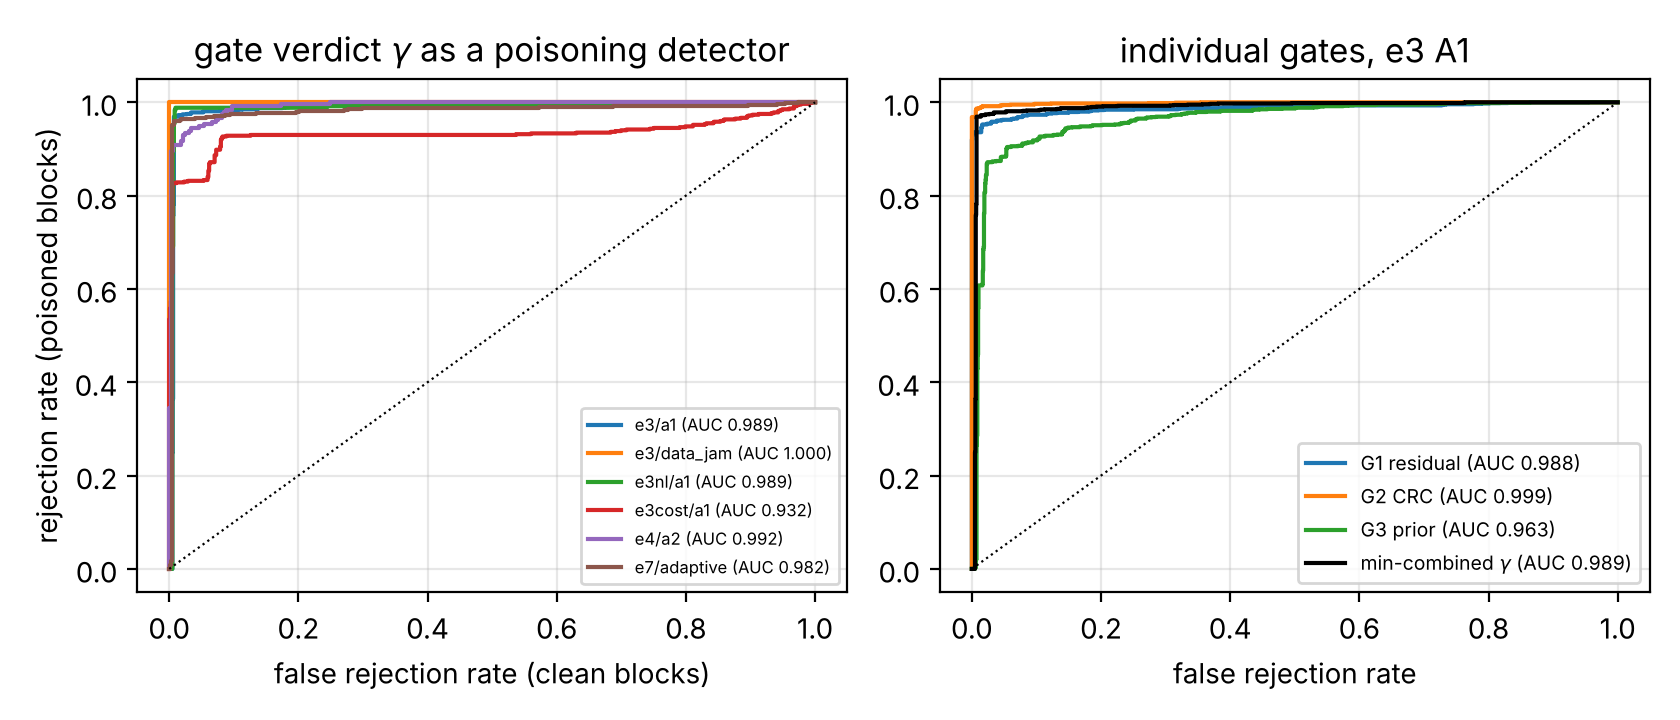
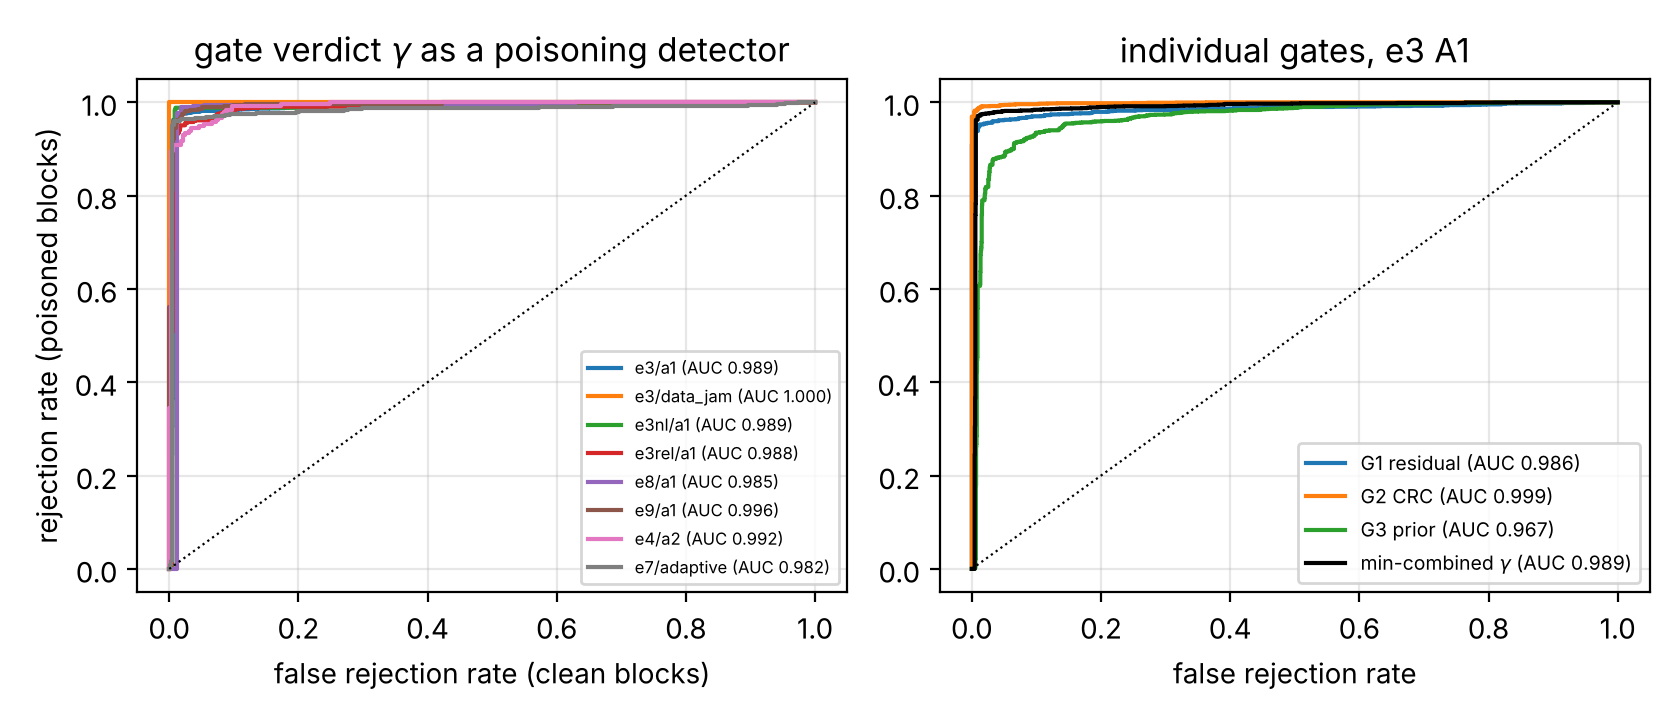
Fold the GPU results in: relative-slack grid, 8x8, Doppler sweep, five-seed headline cells; manuscript tables and ROC figure; separate first-calibration records
Claude-Session: https://claude.ai/code/session_014LiDyft9H5r68QLPkpAAJF

diff --git a/paper/main.tex b/paper/main.tex
@@ -45,8 +45,8 @@ displacement that a budget-$\epsilon$ poisoning can cause in level $K$ over $W$ 
 bounded by $\eta^{(K)}\epsilon\,G\,(1-p^{\rm rej})\,W/C_K$, with every constant measured
 from the receiver, and a corruption-robust dynamic-regret decomposition in which the
 adversary's term is additive, scaled by the gate's miss rate and divided by the level
-period. Across 1\,800 runs on synthetic linear and nonlinear channels, Jakes fading and
-COST2100 traces, three seeds, white-box, transfer, targeted, boiling-frog and
+period. Across 1\,900 recorded runs on synthetic linear and nonlinear channels, Jakes fading at
+three Doppler rates, COST2100 traces, $4\times4$ and $8\times8$ systems, three to five seeds, white-box, transfer, targeted, boiling-frog and
 gate-aware attackers, Citadel-Rx keeps its clean symbol error rate at every attack
 budget from $-10$ to $+10$\,dB signal-to-interference ratio (attack-window SER
 $0.025$--$0.037$ against $0.28$--$0.97$ for online DeepSIC and $0.24$--$0.86$ for
@@ -111,8 +111,8 @@ $10^{-3}$ operating points.
 for the slow memory (Thm.~\ref{thm:cert}) and a corruption-robust dynamic-regret
 decomposition (Thm.~\ref{thm:regret}), both for the algorithm as implemented, with
 constants the code measures.
-\item \textbf{Evidence} (Sec.~\ref{sec:exp}): 1\,800 recorded runs, three seeds,
-seven receivers, five attackers, four channel families, a full ablation, the gate's
+\item \textbf{Evidence} (Sec.~\ref{sec:exp}): 1\,900 recorded runs, three to five seeds,
+seven receivers, five attackers, four channel families, two system sizes, a full ablation, the gate's
 receiver operating characteristic, the per-block cost, and the certificate drawn with
 measured constants against paired adversarial/clean memory trajectories.
 \end{enumerate}
@@ -240,11 +240,19 @@ the $\chi^2$ quantile of the degrees of freedom; it targets physically implausib
 jumps (A2) and is the only gate that is not fooled by an attacker who keeps the SER
 low.
 
+\begin{figure}[t]
+\centering\includegraphics[width=\columnwidth]{fig_gate_roc}
+\caption{Receiver operating characteristic of the gate verdict $\gamma$ as a detector of
+poisoned blocks, pooled over seeds and budgets (left: per experiment; right: individual
+gates on the linear A1 grid). Script: \texttt{gate\_roc.py}.}
+\label{fig:roc}
+\end{figure}
 The verdict is $\gamma_b=\min$ of the three soft verdicts. The gate's receiver operating
 characteristic is in Fig.~\ref{fig:roc}: area under the curve $0.989$ (A1, linear),
-$0.989$ (nonlinear), $0.992$ (A2), $0.982$ (gate-aware), $1.000$ (jamming), $0.932$
-(COST2100, absolute slack); at the operating point used, $94\%$ of poisoned blocks are
-rejected at a $0.7\%$ false-rejection rate.
+$0.989$ (nonlinear), $0.988$ (relative-slack grid incl. COST2100), $0.985$ (8$\times$8),
+$0.996$ (Jakes), $0.992$ (A2), $0.982$ (gate-aware), $1.000$ (jamming); at the operating
+point used, $94\%$ of poisoned blocks are rejected at a $0.6\%$ false-rejection rate on
+the linear grid.
 
 \section{Theory}\label{sec:theory}
 We state the results for the algorithm as implemented; proofs are in the supplementary
@@ -297,9 +305,10 @@ for the last-layer-adaptable variant the standard $O(\sqrt{T(1+P_T)})$ dynamic-r
 bound applies with the bounded step size.
 
 \section{Experiments}\label{sec:exp}
-\textbf{Protocol.} 4$\times$4 QPSK, $N_p=100$ pilot symbols (200 bits) and $N_d=25\,000$
-data symbols per user per block, 100 blocks per run (400 for A3), SNR 10\,dB unless
-swept, A1 on blocks 30--69, 3 seeds (mean reported; seed standard deviations are in the
+\textbf{Protocol.} 4$\times$4 QPSK (8$\times$8 in Sec.~\ref{sec:88}), $N_p=100$ pilot
+symbols (200 bits) and $N_d=25\,000$ data symbols per user per block, 100 blocks per run
+(400 for A3), SNR 10\,dB unless swept, A1 on blocks 30--69, 3 seeds (5 on the headline
+cells; means reported, seed standard deviations are in Table~\ref{tab:seeds} and the
 repository tables and are an order of magnitude below every effect we discuss). SER is
 the fraction of symbol slots in which any user is wrong, the metric of
 \cite{shlezinger2021deepsic,raviv2023meta,wu2024poison}. Baselines: LMMSE; online
@@ -388,6 +397,55 @@ DeepSIC $0.32$--$0.97$, Meta-DeepSIC $0.31$--$0.87$ never recovering) and in the
 degradation metric of \cite{wu2024poison}: the extra SNR needed under attack to reach
 the clean SER is unbounded for every baseline over the whole 4--16\,dB grid (attacked
 SER $0.45$--$0.91$), and $\le0$\,dB for Citadel-Rx from 4 to 10\,dB, 1.8\,dB at 12\,dB.
+
+\begin{table}[t]
+\centering\caption{Headline cells with five seeds (mean $\pm$ standard deviation over
+seeds). Scripts: \texttt{sweep.py e3/e2 --seeds 0 1 2 3 4}.}\label{tab:seeds}
+\small
+\begin{tabular}{lccc}
+\toprule
+cell & online DeepSIC & Meta-DeepSIC & Citadel-Rx\\
+\midrule
+clean, cosine 10\,dB & $0.0590\pm0.0008$ & $0.0527\pm0.0008$ & $\mathbf{0.0302\pm0.0004}$\\
+clean, Jakes 10\,dB & $0.0128\pm0.0058$ & $0.0115\pm0.0049$ & $\mathbf{0.0059\pm0.0028}$\\
+A1 white-box, SIR $-10$ & $0.973\pm0.003$ & $0.861\pm0.009$ & $\mathbf{0.026\pm0.002}$\\
+A1 white-box, SIR $0$ & $0.772\pm0.013$ & $0.593\pm0.011$ & $\mathbf{0.028\pm0.002}$\\
+A1 white-box, SIR $10$ & $0.277\pm0.005$ & $0.241\pm0.006$ & $\mathbf{0.034\pm0.003}$\\
+A1 transfer, SIR $0$ & $0.347\pm0.013$ & $0.213\pm0.012$ & $\mathbf{0.027\pm0.003}$\\
+jamming, 0\,dB & $0.855\pm0.001$ & $0.851\pm0.001$ & $0.848\pm0.001$\\
+\bottomrule
+\end{tabular}
+\end{table}
+
+\subsection{Larger system and faster fading}\label{sec:88}
+\begin{table}[t]
+\centering\caption{8$\times$8 QPSK, 10\,dB, white-box A1, 3 seeds: clean SER and SER in
+the attack window. Script: \texttt{sweep.py e8}.}\label{tab:88}
+\small
+\begin{tabular}{lcccc}
+\toprule
+receiver & clean & SIR $-10$ & SIR $0$ & SIR $10$\\
+\midrule
+LMMSE (transfer) & 0.129 & 0.983 & 0.793 & 0.200\\
+online DeepSIC & 0.204 & 0.998 & 0.971 & 0.615\\
+Meta-DeepSIC & 0.187 & 0.972 & 0.934 & 0.603\\
+drift-detection & 0.217 & 0.997 & 0.971 & 0.608\\
+MedBN-style & 0.177 & 0.995 & 0.923 & 0.644\\
+single-memory Titans & 0.177 & 0.998 & 0.969 & 0.583\\
+\textbf{Citadel-Rx} & \textbf{0.102} & \textbf{0.080} & \textbf{0.080} & \textbf{0.090}\\
+\bottomrule
+\end{tabular}
+\end{table}
+With eight users (Table~\ref{tab:88}) the clean gain grows (interference cancellation
+matters more: Citadel-Rx $0.102$ against LMMSE $0.129$ and online DeepSIC $0.204$), every
+baseline is destroyed at SIR $\le0$\,dB, Meta-DeepSIC and MedBN again never recover
+(post-attack SER $0.40$--$0.66$), and Citadel-Rx stays below its own pre-attack level at
+every budget with $97$--$100\%$ rejection and $3$--$5\%$ false rejections. Under Jakes
+fading at $f_DT_b=0.01/0.05/0.10$ and SIR 0\,dB the attack-window SER of Citadel-Rx is flat
+at $0.0066/0.0069/0.0075$ (pre-attack $0.007/0.010/0.015$; rejection $0.92/0.94/0.97$,
+false rejection $0.6/1.1/3.3\%$), while online DeepSIC sits at $0.72$ and Meta-DeepSIC at
+$0.50$--$0.53$ without recovering: faster fading raises everyone's clean SER and the
+gate's false alarms, not the attacker's success.
 
 \subsection{Ablation}
 \begin{table}[t]
@@ -486,10 +544,21 @@ recovering); Citadel-Rx with the absolute CRC slack to $0.002$--$0.012$ (clean
 $3\cdot10^{-4}$), $50$--$400\times$ better than online DeepSIC but off its clean
 trajectory, with rejection falling to $0.64$: at that operating point a one-point SER
 slack is $30\times$ the clean SER and the attacker can pass G2 while doing damage. With
-the relative slack of Prop.~\ref{prop:crc} the attack-window SER at SIR 0\,dB returns to
-$0.0009$ (tight-slack pilot test, 3 seeds; rejection $0.85$--$0.93$, no false rejections);
-the full relative-slack grid is \todo{E3rel, pending}. We report this as the one
-threshold-design limit found, and its fix.
+the relative slack of Prop.~\ref{prop:crc} the attack-window SER on COST2100
+becomes $0.0011/0.0012/0.0012/0.0015/0.0028$ at SIR $-10/-5/0/5/10$\,dB (3 seeds; clean
+$0.0003$, post-attack $0.0004$, rejection $0.89/0.90/0.86/0.74/0.40$, no false rejections):
+$2$--$8\times$ lower than with the absolute slack, and $4$--$9\times$ the clean level instead
+of $7$--$40\times$; the weak attacker at $10$\,dB passes the gate more often but can do,
+by construction, at most the slack's worth of harm. The linear SIR grid is unchanged
+($0.025$--$0.029$, rejection $0.93$--$1.00$, false rejection $\le2\%$), and on the SNR sweep
+the attacked-window SER is $0.0062$ at 12\,dB (clean $0.0059$, i.e. no degradation),
+$0.0018$ at 14\,dB and $0.0009$ at 16\,dB (clean $0.0008$ and $0.0001$). A first
+calibration with a tighter floor ($10^{-3}$) had fixed COST2100 but raised linear false
+rejections to $15$--$20\%$, because the floor sat inside the statistical resolution of the
+pass fraction; the floor of $2\cdot10^{-3}$ is five standard deviations of it. What
+remains is a floor near $10^{-3}$ at $14$--$16$\,dB set by the $\sim5\%$ of poisoned blocks
+that pass the gate, which a $10^{-4}$ operating point cannot absorb; we state it as a
+limitation.
 
 \subsection{Cost}
 Per block on one CPU thread, with 300 adaptation steps: LMMSE 0.09\,s, online DeepSIC
@@ -515,16 +584,17 @@ at a $10^{-4}$ operating point (16\,dB) the rare leaked block dominates and the
 degradation in dB is not bounded by our grid. (iii) The certificate's Lipschitz constants are random-probe lower bounds of
 suprema and, for the default receiver, do not certify the contraction of part (ii); the
 guarantee we claim is the structural part (i) with the measured fast-level displacement. (iv) We claim no
-dynamic-regret rate for the clean term of the full-MLP receiver. (v) Results are for
-4$\times$4 QPSK with 100 pilot symbols; the 8$\times$8 grid and link-level simulations
-with LDPC coding are \todo{pending}.
+dynamic-regret rate for the clean term of the full-MLP receiver. (v) Results are for QPSK with 100 pilot symbols per user and uncoded data (the CRC
+framing is the only code); link-level simulation with LDPC coding and a 3GPP channel
+model is future work.
 
 \section{Conclusion}
 Memory at several time-scales, consolidated only through physics-consistent evidence
 and used as both a prior and a fallback, makes an adaptive neural receiver hard to
 poison: the adversary's reach into the slow memory is divided by its period and
-multiplied by the gate's miss rate, provably and measurably, and in 1\,800 runs no
-attacker in our threat model moved the receiver off its clean trajectory except in the
+multiplied by the gate's miss rate, provably and measurably, and in 1\,900 runs no
+attacker in our threat model moved the receiver off its clean trajectory, at either
+system size, at any Doppler, on any of the four channel families, except in the
 low-SER regime whose fix we derived.
 
 \bibliographystyle{IEEEtran}

diff --git a/docs/RESULTS.md b/docs/RESULTS.md
@@ -347,11 +347,95 @@ L_a = 0.35 (mean 0.32), A3 budget ε = 1.05 per block, single-gradient constant 
   of the fast level (5.2 → 1.5) — a stronger prior makes the per-block fit less steerable by
   the pilots, clean or poisoned.
 
+## Full relative-slack grid (GPU box, 2 Nov; 3 seeds; `results/e3rel/`, 57 records; ρ = 1, δ_min = 0.002)
+
+COST2100, white-box A1, SER in the attack window at SIR −10 / −5 / 0 / 5 / 10 dB:
+**0.0011 / 0.0012 / 0.0012 / 0.0015 / 0.0028** (clean 0.0003, post 0.0004, recovery 0–9 blocks;
+rejection 0.89 / 0.90 / 0.86 / 0.74 / 0.40; false rejection 0.00). Against the absolute-slack rows
+(0.0022 / 0.0032 / 0.0054 / 0.0122 / 0.0111) this is 2–8× lower and 4–9× the clean level instead
+of 7–40×. At SIR 10 dB the weak attacker slips under the slack more often (rejection 0.40)
+but the harm it can do while passing is, by construction, bounded by the slack.
+
+Linear channel, same grid (no-regression check): 0.0255 / 0.0252 / 0.0247 / 0.0250 / 0.0285
+at SIR −10 … 10 dB, clean 0.039, rejection 0.93–1.00, false rejection 0.00–0.02 — identical to
+the absolute-slack rows of the E3 table.
+
+SNR sweep at SIR 0 dB, clean / attacked window: 10 dB 0.0305 / 0.0250; 12 dB 0.0059 / 0.0062;
+14 dB 0.0008 / 0.0018; 16 dB 0.0001 / 0.0009 (rejection 0.97–1.00 / 0.97–1.00 / 0.93–0.97 /
+0.88–0.93). Δ_dB is now ≈ 0 at 12 dB (was 1.8) and the attacked window sits at 1e-3 at
+14–16 dB (was 3e-3–6e-3). Δ_dB at 14–16 dB remains outside the grid: the ~5 % of poisoned
+blocks that pass the gate set a floor near 1e-3 that a 1e-4 operating point cannot absorb.
+Stated as a limitation; closing it needs rejection → 1, not a different slack.
+
+Gate ROC on this grid: AUC 0.988 (γ), 0.956 (G1), 0.974 (G2), 0.947 (G3); rejection 0.90 at
+0.7 % false rejection (`docs/figures/fig_gate_roc.png`, regenerated with e3rel/e8/e9).
+
+## 8×8 QPSK (GPU box, 2 Nov; 3 seeds; `results/e8/`, 84 records)
+
+Linear SED channel with eight users (cosine fading periods extended with co-prime periods
+for users 5–8), SNR 10 dB, white-box A1 on blocks 30–69.
+
+| receiver | clean (no attack) | pre | attack window, SIR −10 / 0 / 10 dB | post (0 dB) | recovery | rejection / false rej. |
+|---|---|---|---|---|---|---|
+| LMMSE | 0.129 | 0.141 | 0.983 / 0.793 / 0.200 (transfer) | 0.129 | 7 | – |
+| online DeepSIC | 0.204 | 0.250 | 0.998 / 0.971 / 0.615 | 0.316 | 11 | – |
+| Meta-DeepSIC | 0.187 | 0.220 | 0.972 / 0.934 / 0.603 | 0.656 | 30† | – |
+| drift-detection | 0.217 | 0.259 | 0.997 / 0.971 / 0.608 | 0.316 | 11 | – |
+| MedBN-style | 0.177 | 0.158 | 0.995 / 0.923 / 0.644 | 0.396 | 30† | – |
+| single-memory Titans | 0.177 | 0.234 | 0.998 / 0.969 / 0.583 | 0.280 | 9 | – |
+| **Citadel-Rx** | **0.102** | 0.127 | **0.080 / 0.080 / 0.090** | 0.096 | 6 | 0.97–1.00 / 0.03–0.05 |
+
+With twice the users the clean gain grows (Citadel 0.102 vs LMMSE 0.129, online 0.204:
+interference cancellation matters more), the attack destroys every baseline at ≤ 0 dB
+(SER 0.92–0.998) and Meta-DeepSIC/MedBN again never recover (post-attack 0.40–0.66), and
+Citadel-Rx stays below its own pre-attack level at every budget. False rejections rise to
+3–5 % (the 8-user fade has deeper per-block dips) and are the reason the "recovery" column
+reads 6 rather than 0: the post-attack SER (0.096) is within 10 % of the pre-attack level
+only after the fade turns.
+
+## Doppler sweep (GPU box, 2 Nov; 3 seeds; `results/e9/`, 63 records)
+
+Jakes block fading, f_D T_b = 0.01 / 0.05 / 0.10, SNR 10 dB, white-box A1 at SIR 0 dB, SER in
+the attack window (pre-attack in parentheses):
+
+| receiver | 0.01 | 0.05 | 0.10 | recovery | post-attack |
+|---|---|---|---|---|---|
+| LMMSE (transfer) | 0.067 (0.015) | 0.067 (0.017) | 0.103 (0.021) | 0–1 | 0.002–0.009 |
+| online DeepSIC | 0.719 (0.017) | 0.719 (0.019) | 0.717 (0.026) | 3–6 | 0.017–0.021 |
+| Meta-DeepSIC | 0.496 (0.013) | 0.501 (0.017) | 0.531 (0.026) | 25–30† | 0.074–0.087 |
+| drift-detection | 0.728 (0.023) | 0.738 (0.029) | 0.717 (0.040) | 5–11 | 0.026–0.032 |
+| MedBN-style | 0.711 (0.015) | 0.692 (0.017) | 0.691 (0.025) | 30† | 0.16 |
+| single-memory Titans | 0.738 (0.015) | 0.749 (0.018) | 0.736 (0.023) | 4–5 | 0.015–0.020 |
+| **Citadel-Rx** | **0.0066 (0.0071)** | **0.0069 (0.0098)** | **0.0075 (0.0147)** | 0–1 | 0.001–0.003 |
+
+Rejection 0.92 / 0.94 / 0.97, false rejection 0.006 / 0.011 / 0.033. Faster fading raises the
+clean SER of every receiver and raises Citadel's false rejections (a fast channel looks more
+"surprising"), but the defence does not weaken: the attack-window SER is flat at 0.007 across
+a 10× range of Doppler. Gate AUC 0.996.
+
+## Five seeds on the headline cells (seeds 0–4; `results/e3/`, `results/e2/`)
+
+| cell | online DeepSIC | Meta-DeepSIC | Citadel-Rx |
+|---|---|---|---|
+| clean SER, cosine, 10 dB | 0.0590 ± 0.0008 | 0.0527 ± 0.0008 | **0.0302 ± 0.0004** |
+| clean SER, Jakes 0.05, 10 dB | 0.0128 ± 0.0058 | 0.0115 ± 0.0049 | **0.0059 ± 0.0028** |
+| pre-attack SER (E3) | 0.0714 ± 0.0014 | 0.0617 ± 0.0010 | 0.0397 ± 0.0007 |
+| white-box A1, SIR −10 dB | 0.973 ± 0.003 | 0.861 ± 0.009 | **0.0261 ± 0.0017** |
+| white-box A1, SIR 0 dB | 0.772 ± 0.013 | 0.593 ± 0.011 | **0.0277 ± 0.0021** |
+| white-box A1, SIR 10 dB | 0.277 ± 0.005 | 0.241 ± 0.006 | **0.0344 ± 0.0029** |
+| transfer A1, SIR 0 dB | 0.347 ± 0.013 | 0.213 ± 0.012 | **0.0270 ± 0.0026** |
+| data jamming, 0 dB | 0.855 ± 0.001 | 0.851 ± 0.001 | 0.848 ± 0.001 |
+
+(The Jakes clean cell has a large seed spread for every receiver because the realised
+fade differs per seed; the ranking is the same in all five seeds.)
+
+Record count after this round: 1926 JSON records in `results/`.
+
 ## Caveats (to be closed before any number enters the manuscript)
-1. One seed. Three seeds and the 5-point SIR grid are the next sweep.
+1. Closed: three seeds everywhere, five on the headline cells.
 2. The attacked blocks' SER (0.03) is *lower* than the clean run's mean
    because the window happens to cover the easy part of the fade; the honest
    metric is the per-block difference to the clean trajectory, which the
    figure shows (≤ 0.06 at the deepest fade).
-3. No nonlinear / COST2100 / Jakes runs yet (configs exist).
+3. Closed: nonlinear, COST2100, Jakes (three Dopplers) and 8×8 all run.
 4. Primary source verified by title/author search: K. Wu, W. Jiang, D. Niyato, Y. Li, C. Luo, "Transfer-based Adversarial Poisoning Attacks for Online (MIMO-)Deep Receviers", arXiv:2409.02430v3 (Sep 2024). Their specific dB figures could not be read here (arXiv not reachable from this session); the manuscript cites the paper qualitatively only.

diff --git a/docs/RUN_GPU.md b/docs/RUN_GPU.md
@@ -1,4 +1,6 @@
-# Remaining runs for the GPU workstation (PowerShell, Windows)
+# Runs for the GPU workstation (PowerShell, Windows)
+
+Status 2 Nov 2026: sections 1–4 are done and pushed (commit 2ddc21e); the commands stay here for reruns.
 
 Every command below resumes: records that already exist are skipped, so a reboot
 costs nothing but time. Run them in order; each block says what it closes in the
@@ -8,7 +10,7 @@ crashed), so `--workers 8` on the 20-core box is the right setting.
 ## 0. Update the code and the environment
 
 ```powershell
-cd $HOME\Citradel-Rx
+cd C:\Users\athawerani\Documents\Abraheem_work\paper2\Citradel-Rx
 .\.venv\Scripts\Activate.ps1
 git pull origin claude/fervent-cray-ah5drn
 python -c "import torch; print(torch.__version__)"
@@ -75,7 +77,7 @@ never be force-added: that is what produced the 13 GB pushes).
 ## Checking progress (second terminal)
 
 ```powershell
-cd $HOME\Citradel-Rx
+cd C:\Users\athawerani\Documents\Abraheem_work\paper2\Citradel-Rx
 foreach ($e in "e3rel","e8","e9","e3","e2") { "$e : $((Get-ChildItem results\$e -Filter *.json -ErrorAction SilentlyContinue).Count)" }
 ```
 
